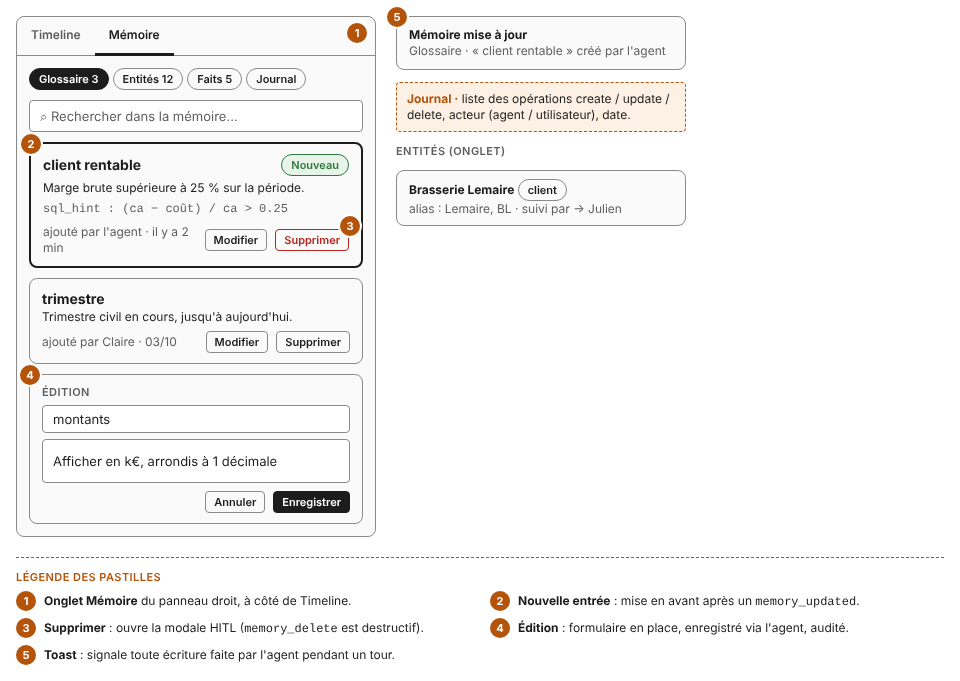
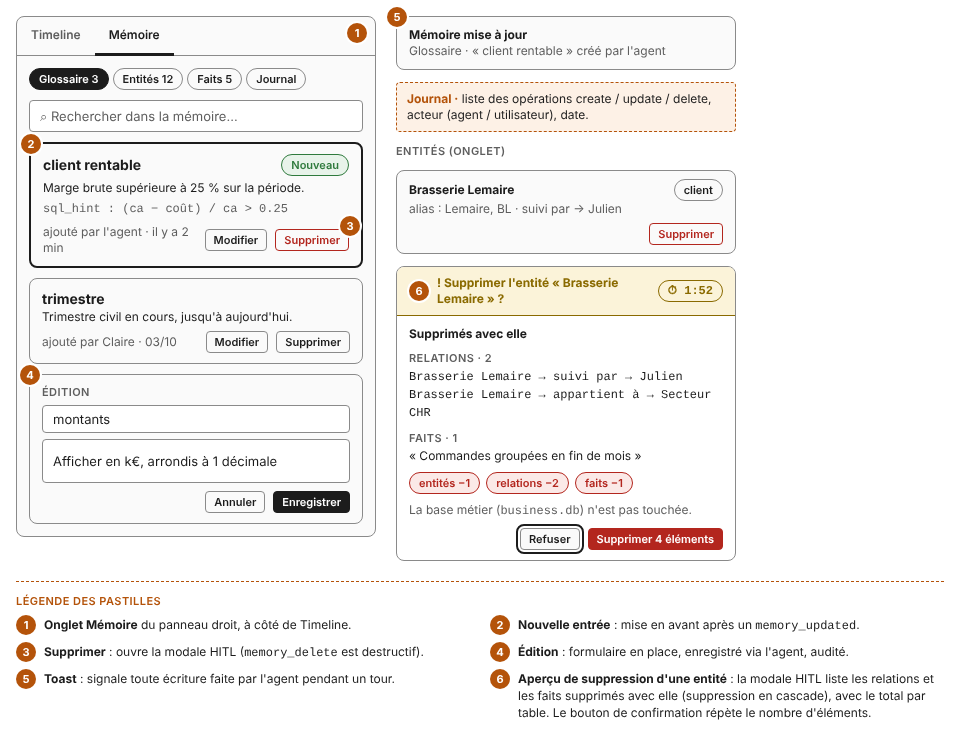
[A.P] fix: low fidelity UI

diff --git a/docs/keynote/ui/PanneauMemoire/PanneauMemoire.html b/docs/keynote/ui/PanneauMemoire/PanneauMemoire.html
@@ -73,15 +73,26 @@ td.n,th.n{text-align:right;font-variant-numeric:tabular-nums}
     <div class="box rel" style="padding:10px 12px"><span class="pin" style="left:-10px;top:-10px">4</span><div class="label" style="margin-bottom:6px">Édition</div><div class="field" style="height:28px;color:var(--ink)">montants</div><div class="field" style="height:44px;margin-top:6px;color:var(--ink)">Afficher en k€, arrondis à 1 décimale</div><div class="row" style="margin-top:8px;justify-content:flex-end"><span class="btn sm">Annuler</span><span class="btn sm primary">Enregistrer</span></div></div>
   </div>
 </div>
-<div class="col" style="width:290px;gap:12px">
+<div class="col" style="width:340px;gap:12px">
   <div class="box small rel" style="padding:10px 12px"><span class="pin" style="left:-10px;top:-10px">5</span><b>Mémoire mise à jour</b><br><span class="muted">Glossaire · « client rentable » créé par l'agent</span></div>
   <div class="note"><b>Journal ·</b> liste des opérations create / update / delete, acteur (agent / utilisateur), date.</div>
   <div class="label">Entités (onglet)</div>
-  <div class="box small" style="padding:8px 12px"><b>Brasserie Lemaire</b> <span class="chip">client</span><br><span class="muted">alias : Lemaire, BL · suivi par → Julien</span></div>
+  <div class="box small" style="padding:8px 12px"><div class="row"><b class="grow">Brasserie Lemaire</b><span class="chip">client</span></div><span class="muted">alias : Lemaire, BL · suivi par → Julien</span><div class="row" style="margin-top:6px;justify-content:flex-end"><span class="btn sm" style="color:var(--bad);border-color:var(--bad)">Supprimer</span></div></div>
+  <div class="box rel" style="background:var(--paper);overflow:hidden">
+    <div class="row" style="padding:8px 12px;background:var(--warn-bg);border-bottom:1.5px solid var(--warn)"><span class="pin in">6</span><b class="small grow" style="color:var(--warn)">! Supprimer l'entité « Brasserie Lemaire » ?</b><span class="chip warn mono">⏱ 1:52</span></div>
+    <div class="small" style="padding:10px 12px;display:flex;flex-direction:column;gap:8px">
+      <div><b>Supprimés avec elle</b></div>
+      <div><span class="label">Relations · 2</span><div class="mono" style="margin-top:2px">Brasserie Lemaire → suivi par → Julien<br>Brasserie Lemaire → appartient à → Secteur CHR</div></div>
+      <div><span class="label">Faits · 1</span><div style="margin-top:2px">« Commandes groupées en fin de mois »</div></div>
+      <div class="row" style="gap:6px;flex-wrap:wrap"><span class="chip bad">entités −1</span><span class="chip bad">relations −2</span><span class="chip bad">faits −1</span></div>
+      <div class="muted">La base métier (<span class="mono">business.db</span>) n'est pas touchée.</div>
+      <div class="row" style="justify-content:flex-end"><span class="btn sm" style="outline:2px solid var(--ink);outline-offset:2px">Refuser</span><span class="btn sm danger">Supprimer 4 éléments</span></div>
+    </div>
+  </div>
 </div>
 </div>
 <style>.legend{margin-top:20px;border-top:1.5px dashed var(--annot);padding-top:12px;max-width:1248px}
 .legend .items{display:grid;grid-template-columns:repeat(auto-fill,minmax(380px,1fr));gap:8px 20px;margin-top:8px}
 .legend .it{display:flex;gap:8px;align-items:flex-start;font-size:12px;line-height:17px}
-.legend .it .pin{margin-top:-1px}.legend .k{font-weight:700}</style><div class="legend"><div class="label" style="color:var(--annot)">Légende des pastilles</div><div class="items"><div class="it"><span class="pin in">1</span><span><b>Onglet Mémoire</b> du panneau droit, à côté de Timeline.</span></div><div class="it"><span class="pin in">2</span><span><b>Nouvelle entrée</b> : mise en avant après un <span class="mono">memory_updated</span>.</span></div><div class="it"><span class="pin in">3</span><span><b>Supprimer</b> : ouvre la modale HITL (<span class="mono">memory_delete</span> est destructif).</span></div><div class="it"><span class="pin in">4</span><span><b>Édition</b> : formulaire en place, enregistré via l'agent, audité.</span></div><div class="it"><span class="pin in">5</span><span><b>Toast</b> : signale toute écriture faite par l'agent pendant un tour.</span></div></div></div>
+.legend .it .pin{margin-top:-1px}.legend .k{font-weight:700}</style><div class="legend"><div class="label" style="color:var(--annot)">Légende des pastilles</div><div class="items"><div class="it"><span class="pin in">1</span><span><b>Onglet Mémoire</b> du panneau droit, à côté de Timeline.</span></div><div class="it"><span class="pin in">2</span><span><b>Nouvelle entrée</b> : mise en avant après un <span class="mono">memory_updated</span>.</span></div><div class="it"><span class="pin in">3</span><span><b>Supprimer</b> : ouvre la modale HITL (<span class="mono">memory_delete</span> est destructif).</span></div><div class="it"><span class="pin in">4</span><span><b>Édition</b> : formulaire en place, enregistré via l'agent, audité.</span></div><div class="it"><span class="pin in">5</span><span><b>Toast</b> : signale toute écriture faite par l'agent pendant un tour.</span></div><div class="it"><span class="pin in">6</span><span><b>Aperçu de suppression d'une entité</b> : la modale HITL liste les relations et les faits supprimés avec elle (suppression en cascade), avec le total par table. Le bouton de confirmation répète le nombre d'éléments.</span></div></div></div>
 </body></html>

diff --git a/docs/keynote/ui/FicheIndicateurs/FicheIndicateurs.html b/docs/keynote/ui/FicheIndicateurs/FicheIndicateurs.html
@@ -63,11 +63,17 @@ td.n,th.n{text-align:right;font-variant-numeric:tabular-nums}
     <div class="kpi grow"><span class="label">Délai moyen de paiement</span><span class="v">40,9 j</span><span class="chip ok" style="align-self:flex-start">✓ vérifiée</span></div>
     <div class="kpi grow rel"><span class="pin" style="right:-8px;top:-8px">2</span><span class="label">Part de la marge totale</span><span class="v">31 %</span><span class="chip warn" style="align-self:flex-start">! non vérifiable</span></div>
   </div>
-  <div class="box rel" style="padding:10px 12px"><span class="pin" style="left:-8px;top:8px">3</span><span class="label">Hypothèses</span><div class="small" style="margin-top:4px">• Trimestre = du 01/10/2026 à aujourd'hui (date fournie par l'outil <span class="mono">time</span>)<br>• Délai moyen calculé sur tout l'historique de facturation</div></div>
+  <div class="box rel" style="padding:10px 12px"><div class="row" style="gap:6px"><span class="pin in">3</span><span class="label">Hypothèses</span><span class="mono muted">assumptions</span></div><div class="small" style="margin-top:4px">• Trimestre = du 01/10/2026 à aujourd'hui (date fournie par l'outil <span class="mono">time</span>)<br>• Délai moyen calculé sur tout l'historique de facturation</div></div>
   <div class="row rel" style="flex-wrap:wrap"><span class="pin in">4</span><span class="label">Relances</span><span class="btn sm ghost">Comparer au trimestre précédent</span><span class="btn sm ghost">Délai sur ce trimestre uniquement</span><span class="btn sm ghost">Détail pour Brasserie Lemaire</span></div>
+  <div class="row" style="margin-top:10px;gap:6px"><span class="pin in">5</span><span class="label">Sans chiffre clé</span><span class="mono muted">key_figures = []</span></div>
+  <div class="dash" style="padding:12px 14px;display:flex;gap:10px;align-items:flex-start">
+    <div class="avatar">S</div>
+    <div class="col grow" style="gap:8px"><div class="row"><b class="small grow">SENSAI</b><span class="chip ok">✓ Vérifiée · 2/2</span></div><div class="bars"><div class="bar" style="width:90%"></div><div class="bar" style="width:75%"></div><div class="bar" style="width:40%"></div></div>
+      <div class="small muted">Réponse sans chiffre clé : la fiche d'indicateurs n'est pas affichée.</div></div>
+  </div>
 </div>
 <style>.legend{margin-top:20px;border-top:1.5px dashed var(--annot);padding-top:12px;max-width:1248px}
 .legend .items{display:grid;grid-template-columns:repeat(auto-fill,minmax(380px,1fr));gap:8px 20px;margin-top:8px}
 .legend .it{display:flex;gap:8px;align-items:flex-start;font-size:12px;line-height:17px}
-.legend .it .pin{margin-top:-1px}.legend .k{font-weight:700}</style><div class="legend"><div class="label" style="color:var(--annot)">Légende des pastilles</div><div class="items"><div class="it"><span class="pin in">1</span><span><b>Cartes KPI</b> : une par <span class="mono">key_figures</span> (5 max) : label, valeur, unité.</span></div><div class="it"><span class="pin in">2</span><span><b>Statut par carte</b> : vérifiée ou non vérifiable, d'après les verdicts du juge.</span></div><div class="it"><span class="pin in">3</span><span><b>Hypothèses</b> : ce que l'agent a supposé (ex. période du délai moyen).</span></div><div class="it"><span class="pin in">4</span><span><b>Relances</b> : <span class="mono">followups</span> (3 max), un clic envoie la question.</span></div></div></div>
+.legend .it .pin{margin-top:-1px}.legend .k{font-weight:700}</style><div class="legend"><div class="label" style="color:var(--annot)">Légende des pastilles</div><div class="items"><div class="it"><span class="pin in">1</span><span><b>Cartes KPI</b> : une par <span class="mono">key_figures</span> (5 max) : label, valeur, unité.</span></div><div class="it"><span class="pin in">2</span><span><b>Statut par carte</b> : vérifiée ou non vérifiable, d'après les verdicts du juge.</span></div><div class="it"><span class="pin in">3</span><span><b>Hypothèses</b> : <span class="mono">assumptions</span> du rapport du juge, ce que l'agent a supposé (ex. période du délai moyen).</span></div><div class="it"><span class="pin in">4</span><span><b>Relances</b> : <span class="mono">followups</span> (3 max), un clic envoie la question.</span></div><div class="it"><span class="pin in">5</span><span><b>0 carte</b> : quand <span class="mono">key_figures</span> est vide, la fiche est masquée.</span></div></div></div>
 </body></html>

diff --git a/docs/keynote/ui/BadgeJuge/BadgeJuge.html b/docs/keynote/ui/BadgeJuge/BadgeJuge.html
@@ -62,6 +62,14 @@ td.n,th.n{text-align:right;font-variant-numeric:tabular-nums}
     <span class="chip ok">✓ Vérifiée · 6/6</span>
     <span class="chip warn">! À vérifier · 1 non vérifiable</span>
     <span class="chip bad">✗ Contredite · 1 affirmation</span>
+    <span class="chip off">⊘ Vérification indisponible</span>
+  </div>
+  <div class="row rel" style="align-items:flex-start;gap:10px"><span class="pin in">4</span>
+    <div class="box small" style="padding:10px 12px;max-width:520px;border-style:dashed">
+      <div class="row"><span class="chip off">⊘ Vérification indisponible</span><span class="muted">au survol :</span></div>
+      <div style="margin-top:6px">Le juge n'a pas pu vérifier cette réponse. <b>Les chiffres n'ont pas été contrôlés.</b></div>
+      <div class="muted" style="margin-top:2px">Cause : rapport invalide après réparation · délai dépassé · modèle injoignable</div>
+    </div>
   </div>
   <div class="box rel" style="padding:16px;display:flex;flex-direction:column;gap:10px">
     <span class="pin" style="left:-8px;top:-8px">2</span>
@@ -86,5 +94,5 @@ td.n,th.n{text-align:right;font-variant-numeric:tabular-nums}
 <style>.legend{margin-top:20px;border-top:1.5px dashed var(--annot);padding-top:12px;max-width:1248px}
 .legend .items{display:grid;grid-template-columns:repeat(auto-fill,minmax(380px,1fr));gap:8px 20px;margin-top:8px}
 .legend .it{display:flex;gap:8px;align-items:flex-start;font-size:12px;line-height:17px}
-.legend .it .pin{margin-top:-1px}.legend .k{font-weight:700}</style><div class="legend"><div class="label" style="color:var(--annot)">Légende des pastilles</div><div class="items"><div class="it"><span class="pin in">1</span><span><b>Quatre états</b> : en cours, ✓ Vérifiée, ! À vérifier, ✗ Contredite. Le symbole est toujours présent : la couleur seule ne suffit pas.</span></div><div class="it"><span class="pin in">2</span><span><b>Surlignage</b> : affirmation contredite soulignée en rouge ; au survol, la vraie valeur et sa colonne source. Affirmation vérifiée soulignée en vert discret.</span></div><div class="it"><span class="pin in">3</span><span><b>Détail</b> : liste des affirmations avec leur verdict, pertinence, fidélité, contrôle numérique.</span></div></div></div>
+.legend .it .pin{margin-top:-1px}.legend .k{font-weight:700}</style><div class="legend"><div class="label" style="color:var(--annot)">Légende des pastilles</div><div class="items"><div class="it"><span class="pin in">1</span><span><b>Cinq états</b> : en cours, ✓ Vérifiée, ! À vérifier, ✗ Contredite, ⊘ Vérification indisponible. Le symbole est toujours présent : la couleur seule ne suffit pas.</span></div><div class="it"><span class="pin in">2</span><span><b>Surlignage</b> : affirmation contredite soulignée en rouge ; au survol, la vraie valeur et sa colonne source. Affirmation vérifiée soulignée en vert discret.</span></div><div class="it"><span class="pin in">3</span><span><b>Détail</b> : liste des affirmations avec leur verdict, pertinence, fidélité, contrôle numérique.</span></div><div class="it"><span class="pin in">4</span><span><b>Vérification indisponible</b> : le juge a échoué (rapport invalide après une réparation, délai dépassé, modèle injoignable). Badge neutre en pointillés ; au survol, la cause et la mention « les chiffres n'ont pas été contrôlés ». La réponse reste affichée.</span></div></div></div>
 </body></html>

diff --git a/docs/keynote/ui/BadgeJuge/README.md b/docs/keynote/ui/BadgeJuge/README.md
@@ -3,16 +3,18 @@
 Badge qui donne le verdict du juge sur une réponse chiffrée, avec le surlignage des affirmations.
 
 ## Annotations
-1. **Quatre états** : en cours, ✓ Vérifiée, ! À vérifier, ✗ Contredite. Le symbole est toujours présent : la couleur seule ne suffit pas.
+1. **Cinq états** : en cours, ✓ Vérifiée, ! À vérifier, ✗ Contredite, ⊘ Vérification indisponible. Le symbole est toujours présent : la couleur seule ne suffit pas.
 2. **Surlignage** : affirmation contredite soulignée en rouge ; au survol, la vraie valeur et sa colonne source. Affirmation vérifiée soulignée en vert discret.
 3. **Détail** : liste des affirmations avec leur verdict, pertinence, fidélité, contrôle numérique.
+4. **Vérification indisponible** : le juge a échoué (rapport invalide après une réparation, délai dépassé, modèle injoignable). Badge neutre en pointillés ; au survol, la cause et la mention « les chiffres n'ont pas été contrôlés ». La réponse reste affichée.
 
 ## Règles
 - Le juge ne bloque pas l'affichage : la réponse arrive d'abord, le badge ensuite.
 - Règles du badge : voir PROJECT.md §6.6.
+- « Vérification indisponible » (échec du juge) est distinct de « Juge désactivé » (choix de l'utilisateur dans Réglages).
 
 ## Événements
-`judge_started`, `judge_report`.
+`judge_started`, `judge_report`. L'état indisponible suit un échec du juge après `judge_started` (forme exacte du signal : `events.md`).
 
 ## Démo
 Acte 3 (hallucination attrapée).

diff --git a/docs/keynote/ui/FicheIndicateurs/README.md b/docs/keynote/ui/FicheIndicateurs/README.md
@@ -5,8 +5,9 @@ Cartes de chiffres clés issues du rapport structuré du juge, avec hypothèses 
 ## Annotations
 1. **Cartes KPI** : une par `key_figures` (5 max) : label, valeur, unité.
 2. **Statut par carte** : vérifiée ou non vérifiable, d'après les verdicts du juge.
-3. **Hypothèses** : ce que l'agent a supposé (ex. période du délai moyen).
+3. **Hypothèses** : `assumptions` du rapport du juge, ce que l'agent a supposé (ex. période du délai moyen).
 4. **Relances** : `followups` (3 max), un clic envoie la question.
+5. **0 carte** : quand `key_figures` est vide, la fiche est masquée.
 
 ## Événements
-`judge_report` (`key_figures`, `followups`).
+`judge_report` (`key_figures`, `assumptions`, `followups`).

diff --git a/docs/keynote/ui/PanneauMemoire/README.md b/docs/keynote/ui/PanneauMemoire/README.md
@@ -8,6 +8,7 @@ Panneau qui liste ce que l'agent a retenu (glossaire, entités, faits) et permet
 3. **Supprimer** : ouvre la modale HITL (`memory_delete` est destructif).
 4. **Édition** : formulaire en place, enregistré via l'agent, audité.
 5. **Toast** : signale toute écriture faite par l'agent pendant un tour.
+6. **Aperçu de suppression d'une entité** : la modale HITL liste les relations et les faits supprimés avec elle (suppression en cascade), avec le total par table. Le bouton de confirmation répète le nombre d'éléments.
 
 ## Données
 `GET /api/memory` au chargement, puis événements `memory_updated`.
